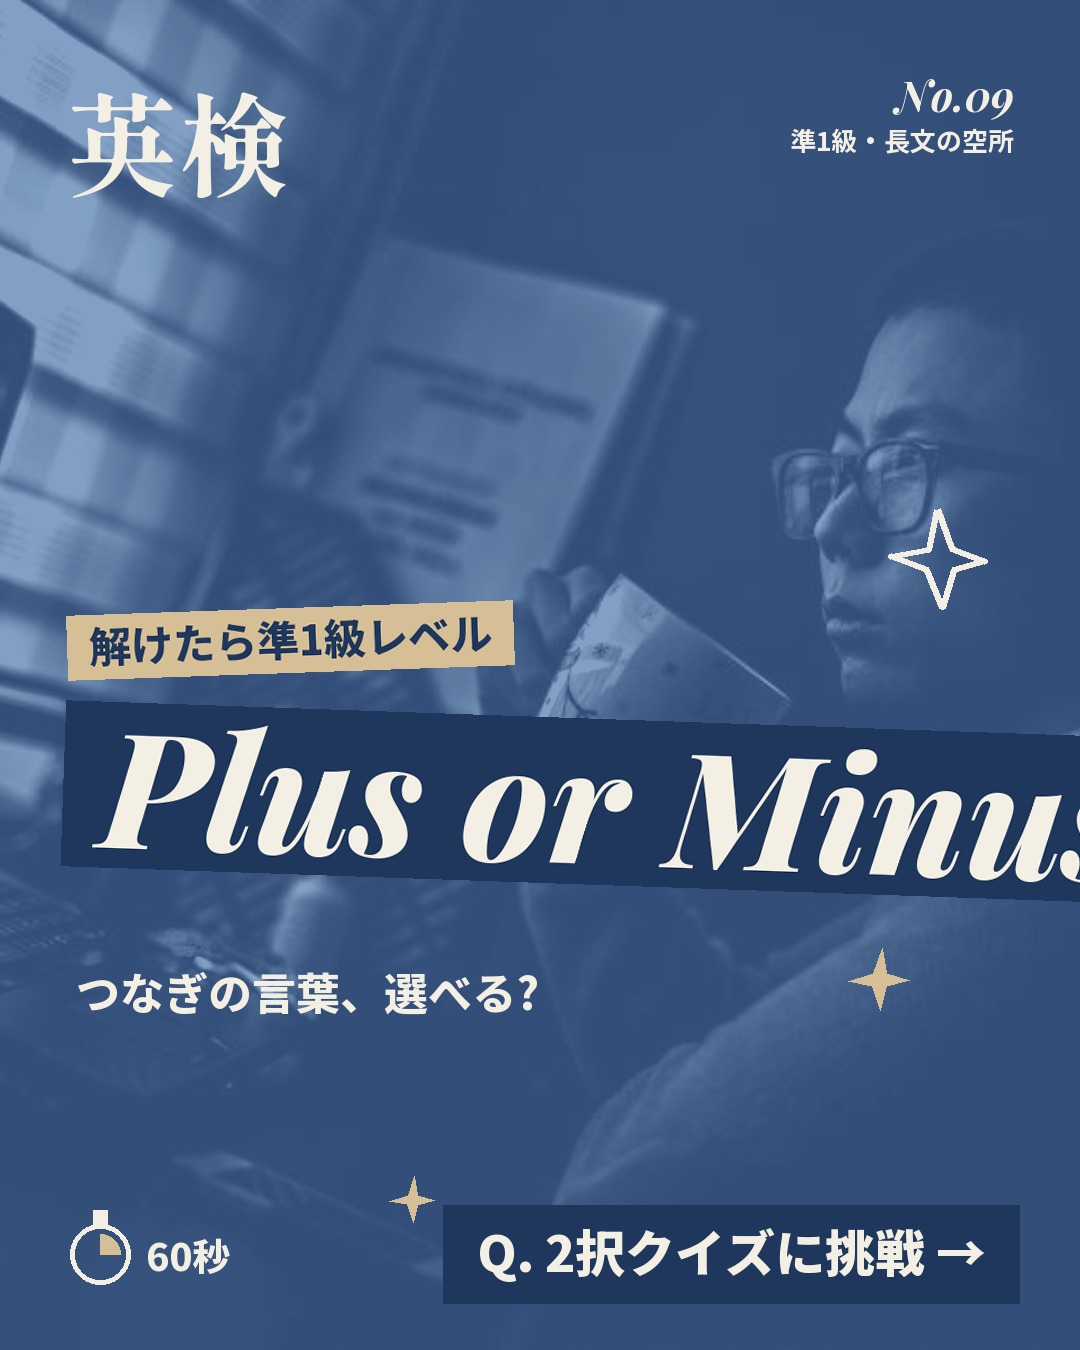
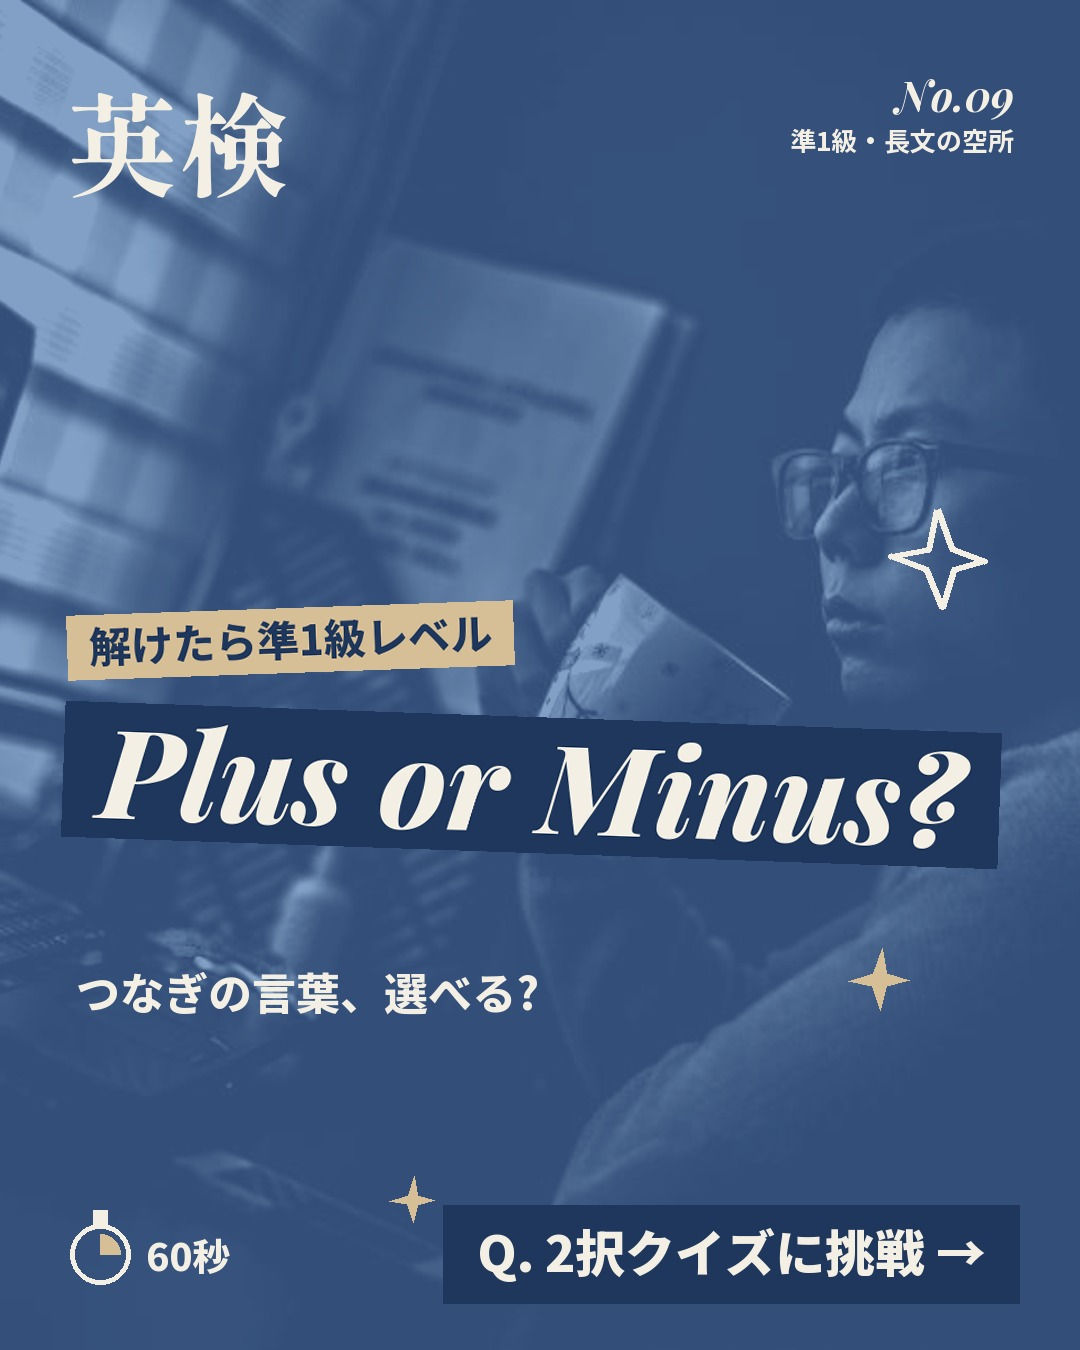
英検の表紙: 長い見出しを座布団に収める

Changed region(s): [[0.0611, 0.5289, 1.0, 0.6844]]

diff --git a/eiken_cover.py b/eiken_cover.py
@@ -88,7 +88,9 @@ def make(v, photo, no, teaser, word, line, level="準1級", out=None):
         im = duo(photo, W, H, (30, 50, 90), SKY); d = ImageDraw.Draw(im)
         ov = Image.new("RGBA", (W, H), BLUE + (110,)); im.alpha_composite(ov); d = ImageDraw.Draw(im)
         put(im, text_im(teaser, go(42, 800), NAVY, (22, 12), SAND).rotate(2, expand=True, resample=Image.BICUBIC), (66, 600))
-        put(im, text_im(word, pf(160, 800), CREAM, (30, 18), NAVY).rotate(-2, expand=True, resample=Image.BICUBIC), (60, 700))
+        f3 = pf(160, 800)
+        while f3.getlength(word) > W - 200: f3 = pf(f3.size - 6, 800)  # 長い見出しも座布団からはみ出さない
+        put(im, text_im(word, f3, CREAM, (30, 18), NAVY).rotate(-2, expand=True, resample=Image.BICUBIC), (60, 700))
         d = ImageDraw.Draw(im); d.text((76, 1010), line, font=go(44, 800), fill=CREAM, anchor="ls")
         star(d, 940, 560, 50, CREAM, seed=3); sparkle(d, 880, 980, 30, SAND); header(d, CREAM, no, level)
         footer(im, CREAM, NAVY, CREAM, SAND)
